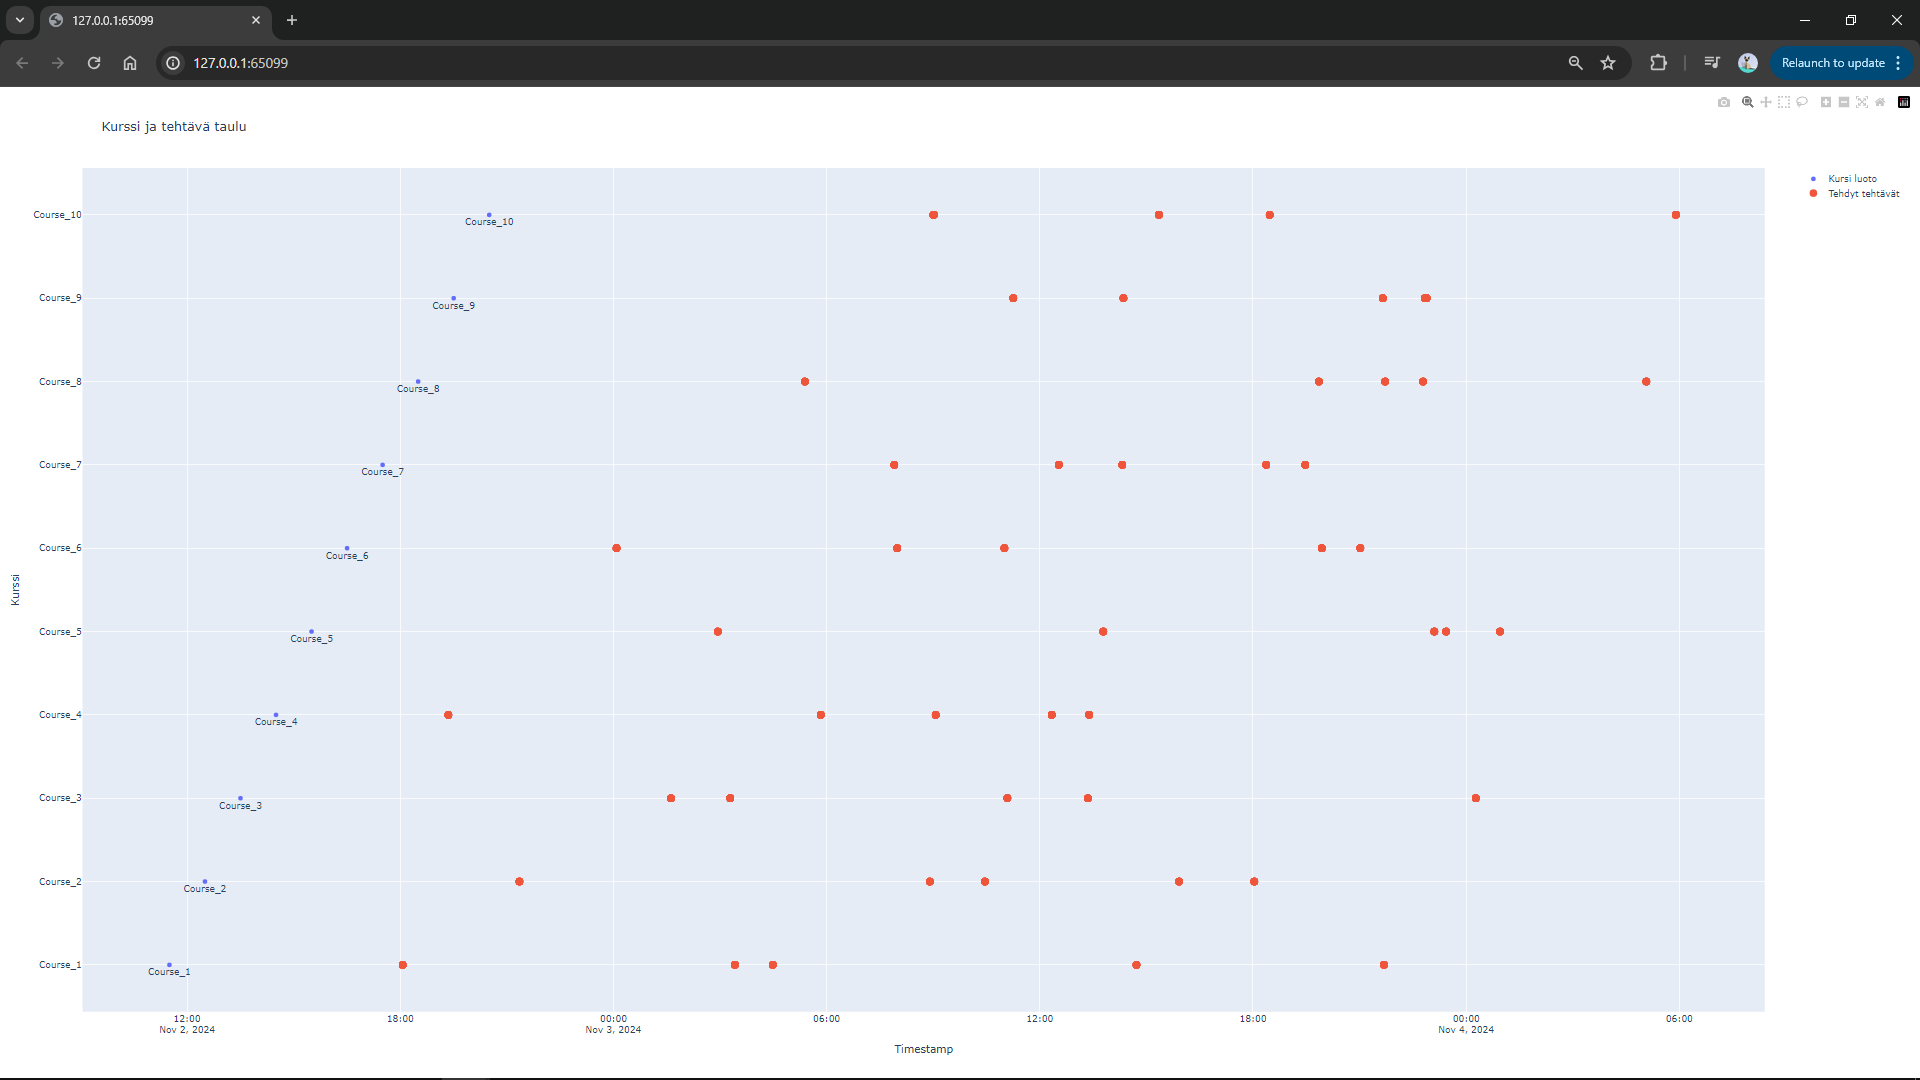
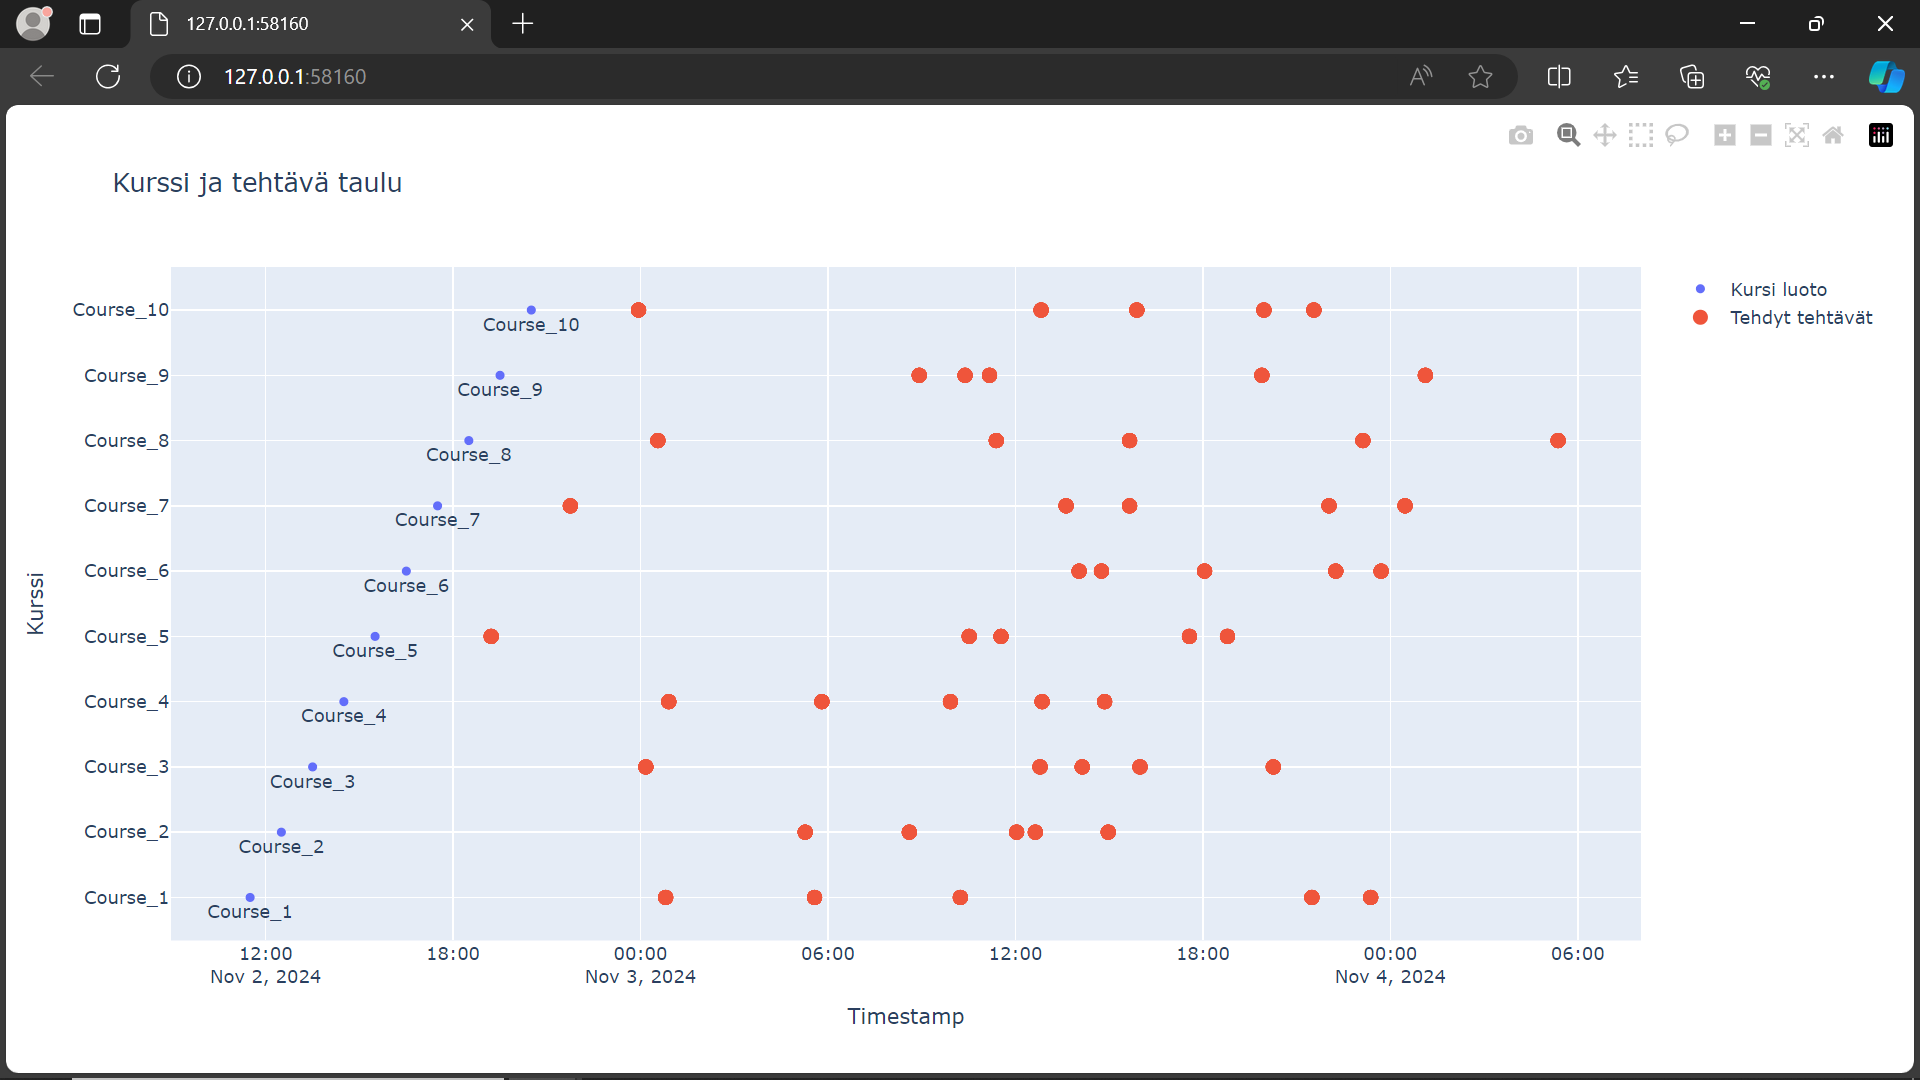
Documentation and pylint

diff --git a/verkkokurssi-app/src/datapack.py b/verkkokurssi-app/src/datapack.py
@@ -6,7 +6,8 @@ from databaselogic.database import get_database_connection
 
 def create_users():
     cursor = get_database_connection().cursor()
-    cursor.execute("INSERT INTO users (id, admin, username, password) VALUES (1, true, 'mono', 'mono')")
+    cursor.execute('''INSERT INTO users (id, admin, username, password)
+                   VALUES (222, true, 'mono', 'mono')''')
 
 def create_courses():
     cursor = get_database_connection().cursor()
@@ -15,18 +16,19 @@ def create_courses():
         course_title = f"Course_{i}"
         credits_amount = i
         created_at = datetime(2024, 11, 2, 10+i, 30, 15)
-        cursor.execute("INSERT INTO courses (id, userID, title, credits, created_at) VALUES (?, ?, ?, ?, ?)",
-                        (i, 1, course_title, credits_amount, created_at))
+        cursor.execute('''INSERT INTO courses (id, userID, title, credits, created_at)
+                       VALUES (?, ?, ?, ?, ?)''',
+                        (i, 222, course_title, credits_amount, created_at))
 
 def create_exercises():
     cursor = get_database_connection().cursor()
-    
+
     #Koodi laadittu CHATGPT:tä hyödyntäen
     for i in range(1, 11):
         cursor.execute("SELECT created_at FROM courses WHERE id = ?", (i,))
         course_created_at_str = cursor.fetchone()["created_at"]
         course_created_at = datetime.strptime(course_created_at_str, "%Y-%m-%d %H:%M:%S")
-        
+
         for j in range(1, 11):
             exercise_description = f"Course_{i}_Exercise_{j}"
             done = j % 2 == 0
@@ -40,7 +42,8 @@ def create_exercises():
                 if marked_done_at < course_created_at:
                     marked_done_at = course_created_at + timedelta(minutes=random.randint(1, 59))
 
-            cursor.execute("INSERT INTO exercises (courseID, description, done, marked_done_at) VALUES (?, ?, ?, ?)",
+            cursor.execute('''INSERT INTO exercises (courseID, description, done, marked_done_at)
+                           VALUES (?, ?, ?, ?)''',
                             (i, exercise_description, done, marked_done_at))
 
 def main():

diff --git a/verkkokurssi-app/src/entities/user.py b/verkkokurssi-app/src/entities/user.py
@@ -20,4 +20,3 @@ class User:
         self.username = username
         self.password = password
         self.admin    = admin
-    

diff --git a/verkkokurssi-app/src/databaselogic/database.py b/verkkokurssi-app/src/databaselogic/database.py
@@ -6,4 +6,3 @@ connection.row_factory = sqlite3.Row
 
 def get_database_connection():
     return connection
-    

diff --git a/verkkokurssi-app/src/app.py b/verkkokurssi-app/src/app.py
@@ -12,4 +12,3 @@ def main():
 
 if __name__ == "__main__":
     main()
-    

diff --git a/dokumentaatio/arkkitehtuuri.md b/dokumentaatio/arkkitehtuuri.md
@@ -7,14 +7,12 @@ Koodin pakkausrakenne on seuraava:
 ```mermaid
 classDiagram
 
-    ui..>services
-    services..>repositories
+    ui..>repositories
     services..>ui
     repositories..>entities
 ```
+ Pakkaus **services**, joka sisältää käyttöliittymästä vastaavan pakkauksen ja koodin (**UI**). UI on  riippuvainen pakkauksesta  **repositories**, jonka avulla poimitaan näyttettäviä tietoja.  **repositories** sisältää  tallennuksesta vastaavaa koodia ja pakkaus **entities** sisältää luokkia, jotka kuvastavat sovelluksen oloita. 
 
-
- Pakkaus **ui**, joka sisältää käyttöliittymästä vastaavan koodin on yhdessä riippuvainen pakkauksesta **services**, jonka kanssa suoritetaan pakkauksen **repositories** toimintoja näyttääkseen tietoja.  **repositories** sisältää  tallennuksesta vastaavaa kodia ja pakkaus **entities** sisältää luokkia, jotka kuvastavat sovelluksen oloita. 
 
 ## Käyttöliittymä
 
@@ -61,21 +59,22 @@ Metodit käyttäjien ja kurssien luomiseen ovat esimerkiksi:
 - `create_course(self, course, user_id)`
 
 
-Toiminnallisuudesta vastaa luokka [AppService](https://github.com/paulikarels/ot-harjoitustyo/blob/main/verkkokurssi-app/src/services/app_service.py) 
+Toiminnallisuudesta vastaa luokka [AppService](https://github.com/paulikarels/ot-harjoitustyo/blob/main/verkkokurssi-app/src/services/app_service.py) , mikä viittaa UI luokkaan, joka hoitaa näkymät ja niiden poimittavat datat.
 
-AppService pääsee seuraaviin luokkiin; User, Course ja Exercise  [CourseRepository](https://github.com/paulikarels/ot-harjoitustyo/blob/main/verkkokurssi-app/src/repositories/course_repository.py), [UserRepository](https://github.com/paulikarels/ot-harjoitustyo/blob/main/verkkokurssi-app/src/repositories/user_repository.py) ja [ExerciseRepository](https://github.com/paulikarels/ot-harjoitustyo/blob/main/verkkokurssi-app/src/repositories/exercise_repository.py) kautta.
+AppService pääsee seuraaviin luokkiin UI:n kautta; User, Course ja Exercise  [CourseRepository](https://github.com/paulikarels/ot-harjoitustyo/blob/main/verkkokurssi-app/src/repositories/course_repository.py), [UserRepository](https://github.com/paulikarels/ot-harjoitustyo/blob/main/verkkokurssi-app/src/repositories/user_repository.py) ja [ExerciseRepository](https://github.com/paulikarels/ot-harjoitustyo/blob/main/verkkokurssi-app/src/repositories/exercise_repository.py) kautta.
 
 ```mermaid
  classDiagram
-      AppService ..> UserRepository
+      AppService ..> UI
+      UI ..> UserRepository
       UserRepository ..> User
-      AppService "0..1" -- "0..1" User
-      AppService ..> CourseRepository 
+      UI "0..1" -- "0..1" User
+      UI ..> CourseRepository 
       CourseRepository ..> Course
-      AppService "0..1" -- "0..1" Course
-      AppService ..> ExerciseRepository
+      UI "0..1" -- "0..1" Course
+      UI ..> ExerciseRepository
       ExerciseRepository ..> Exercise
-      AppService "0..1" -- "0..1" Exercise
+      UI "0..1" -- "0..1" Exercise
       Course "*" -- "1" User
       Course "1" -- "*" Exercise
 ```

diff --git a/dokumentaatio/kayttoohje.md b/dokumentaatio/kayttoohje.md
@@ -59,4 +59,14 @@ Voit katsoa päivämäärittäin tehtyjä kursseja ja niiden suoritettuja tehtä
 
 Näet tämän jälkeen (esimerkki näkymä) kyseisen näkymän oletus selaimellassi, mistä näet luotujen kurssien aikataulut ja tehtävien suoritusajat.
 
-![](./image/Chart_webView.png.png) 
+![](./image/Chart_webView.png) 
+
+Voit laatia "testikannan" suoritamalla kyseisen komennon alustamisen jälkeen, jossa lisätään tietokantaan dataa nähdäkseen kaavion suuremalla datalla:
+
+`poetry run invoke datapack`
+
+Kirjaudu seuraavilla tunnuksilla (mono mono):
+![](./image/mono.png) 
+
+Jolla pääset näkymään, jossa on laajemmin luotu kursseja ja tehtäviä
+![](./image/mono_courses.png) 

diff --git a/dokumentaatio/testaus.md b/dokumentaatio/testaus.md
@@ -33,4 +33,4 @@ Kaikki [määrittelydokumentin](https://github.com/paulikarels/ot-harjoitustyo/b
 
 ## Sovelluksen laatuongelmat
 
-Sovellus ei anna virheilmoitusta, jos buildattua SQLite tietokantaa ei ole alustettu.
+Sovellus ei anna virheilmoitusta, jos buildattua SQLite tietokantaa ei ole alustettu, vaikka se ei ole pakollinen.
